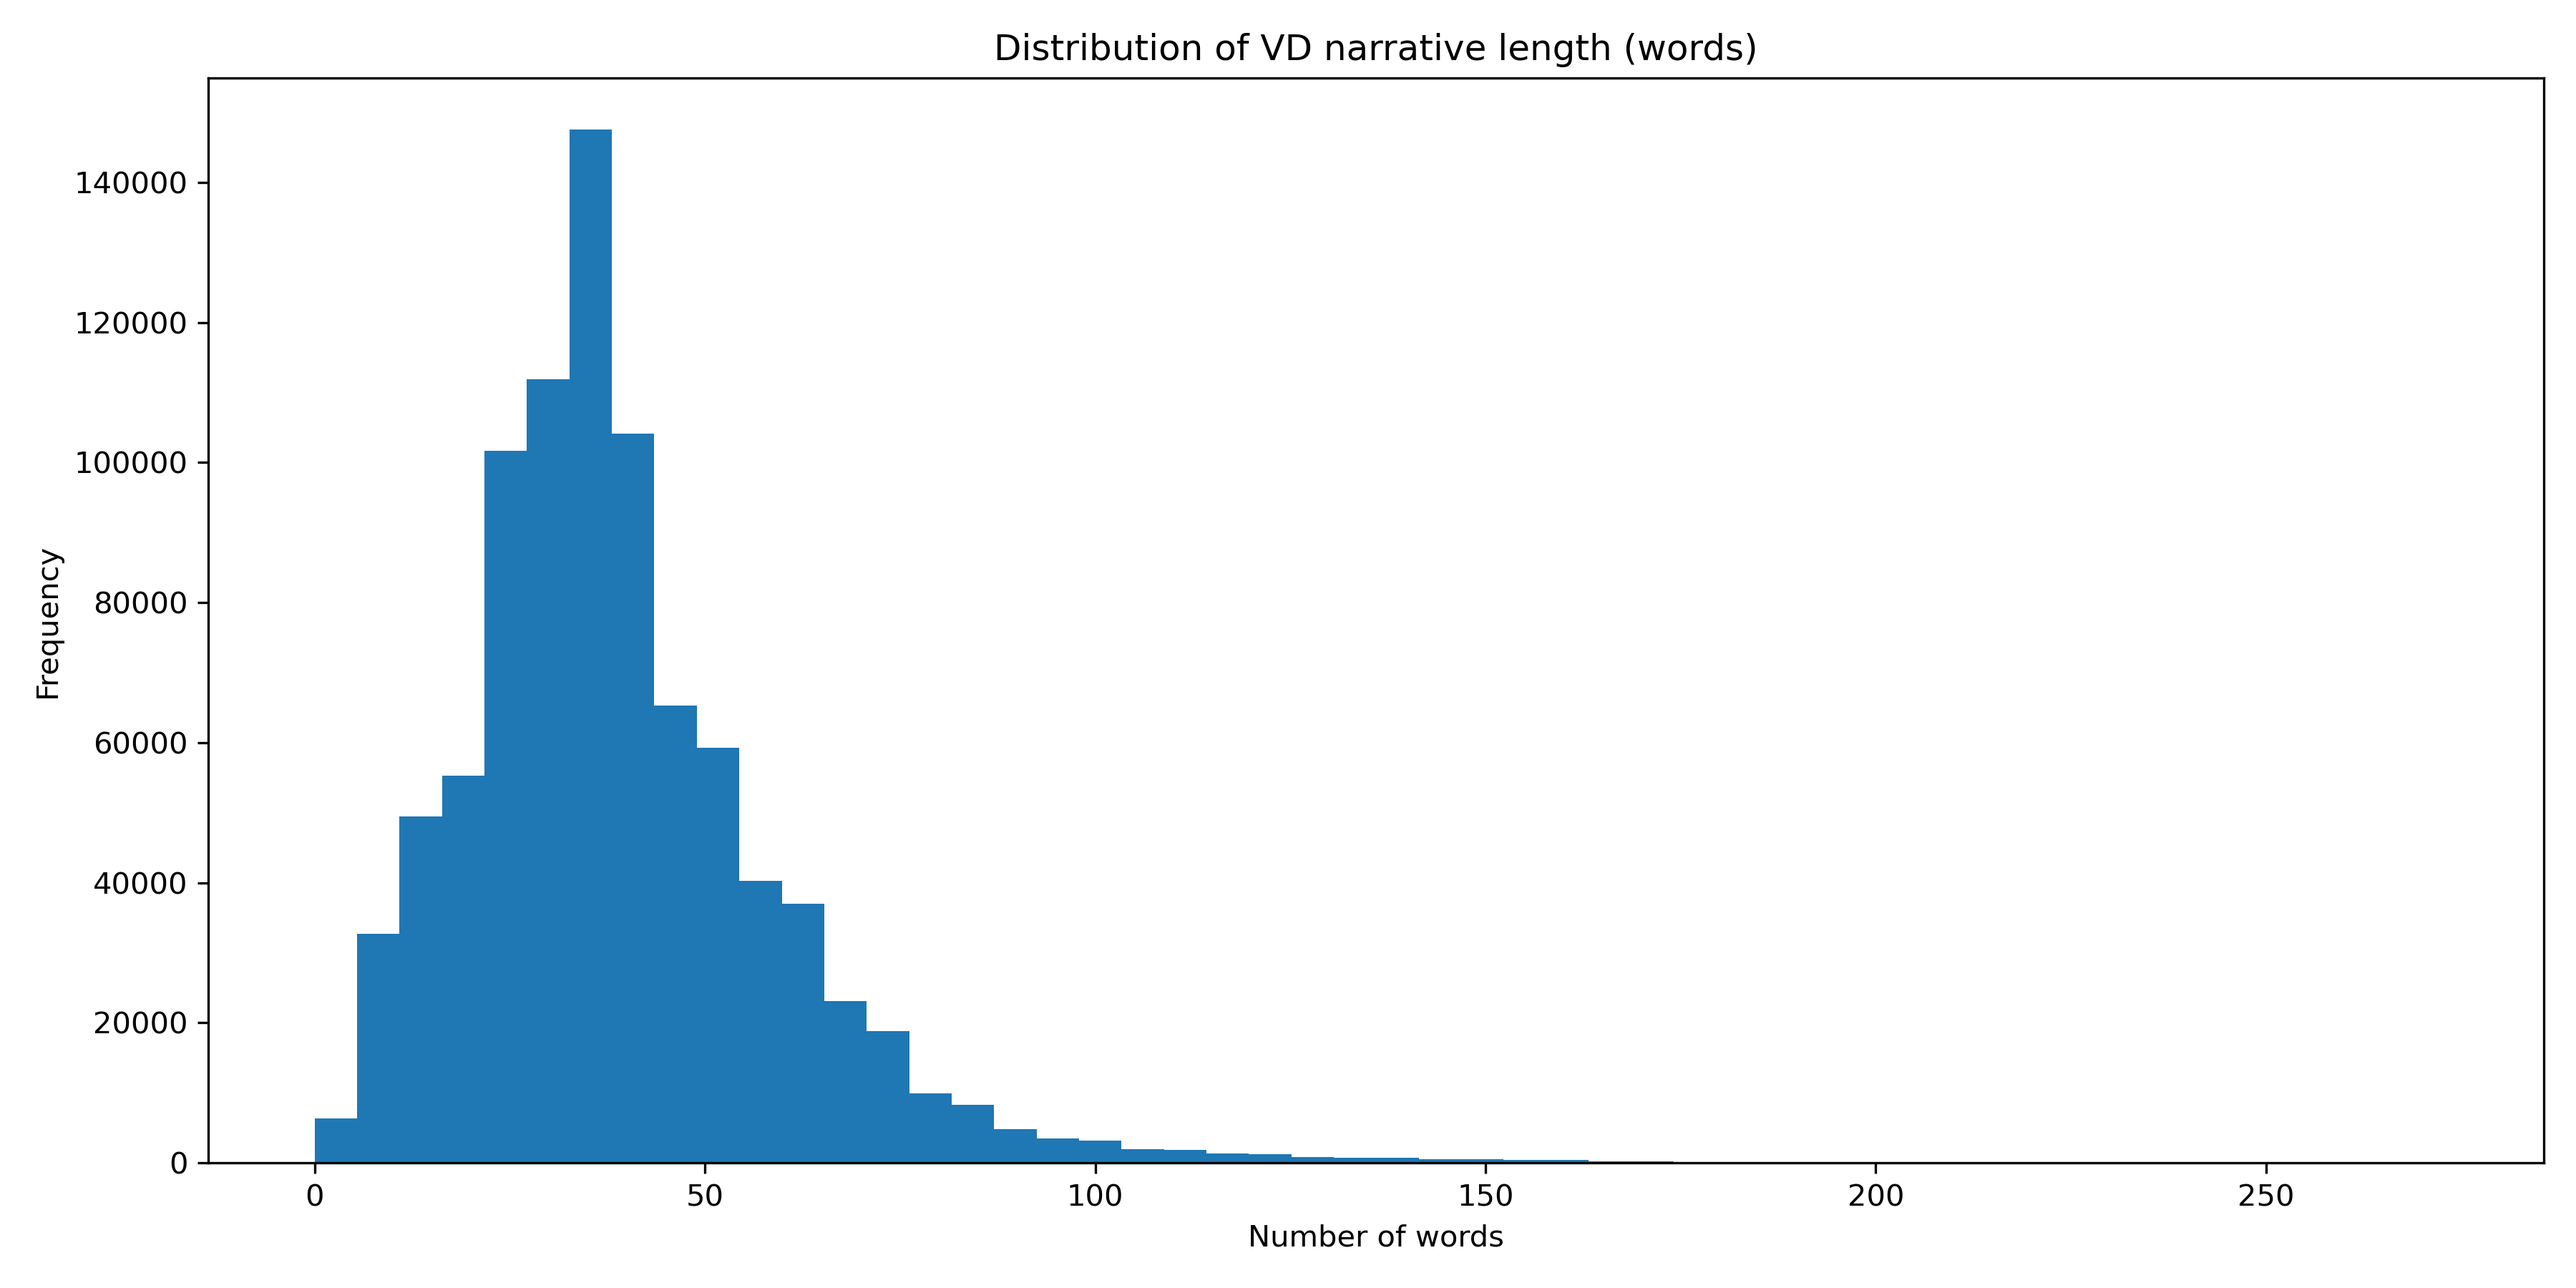
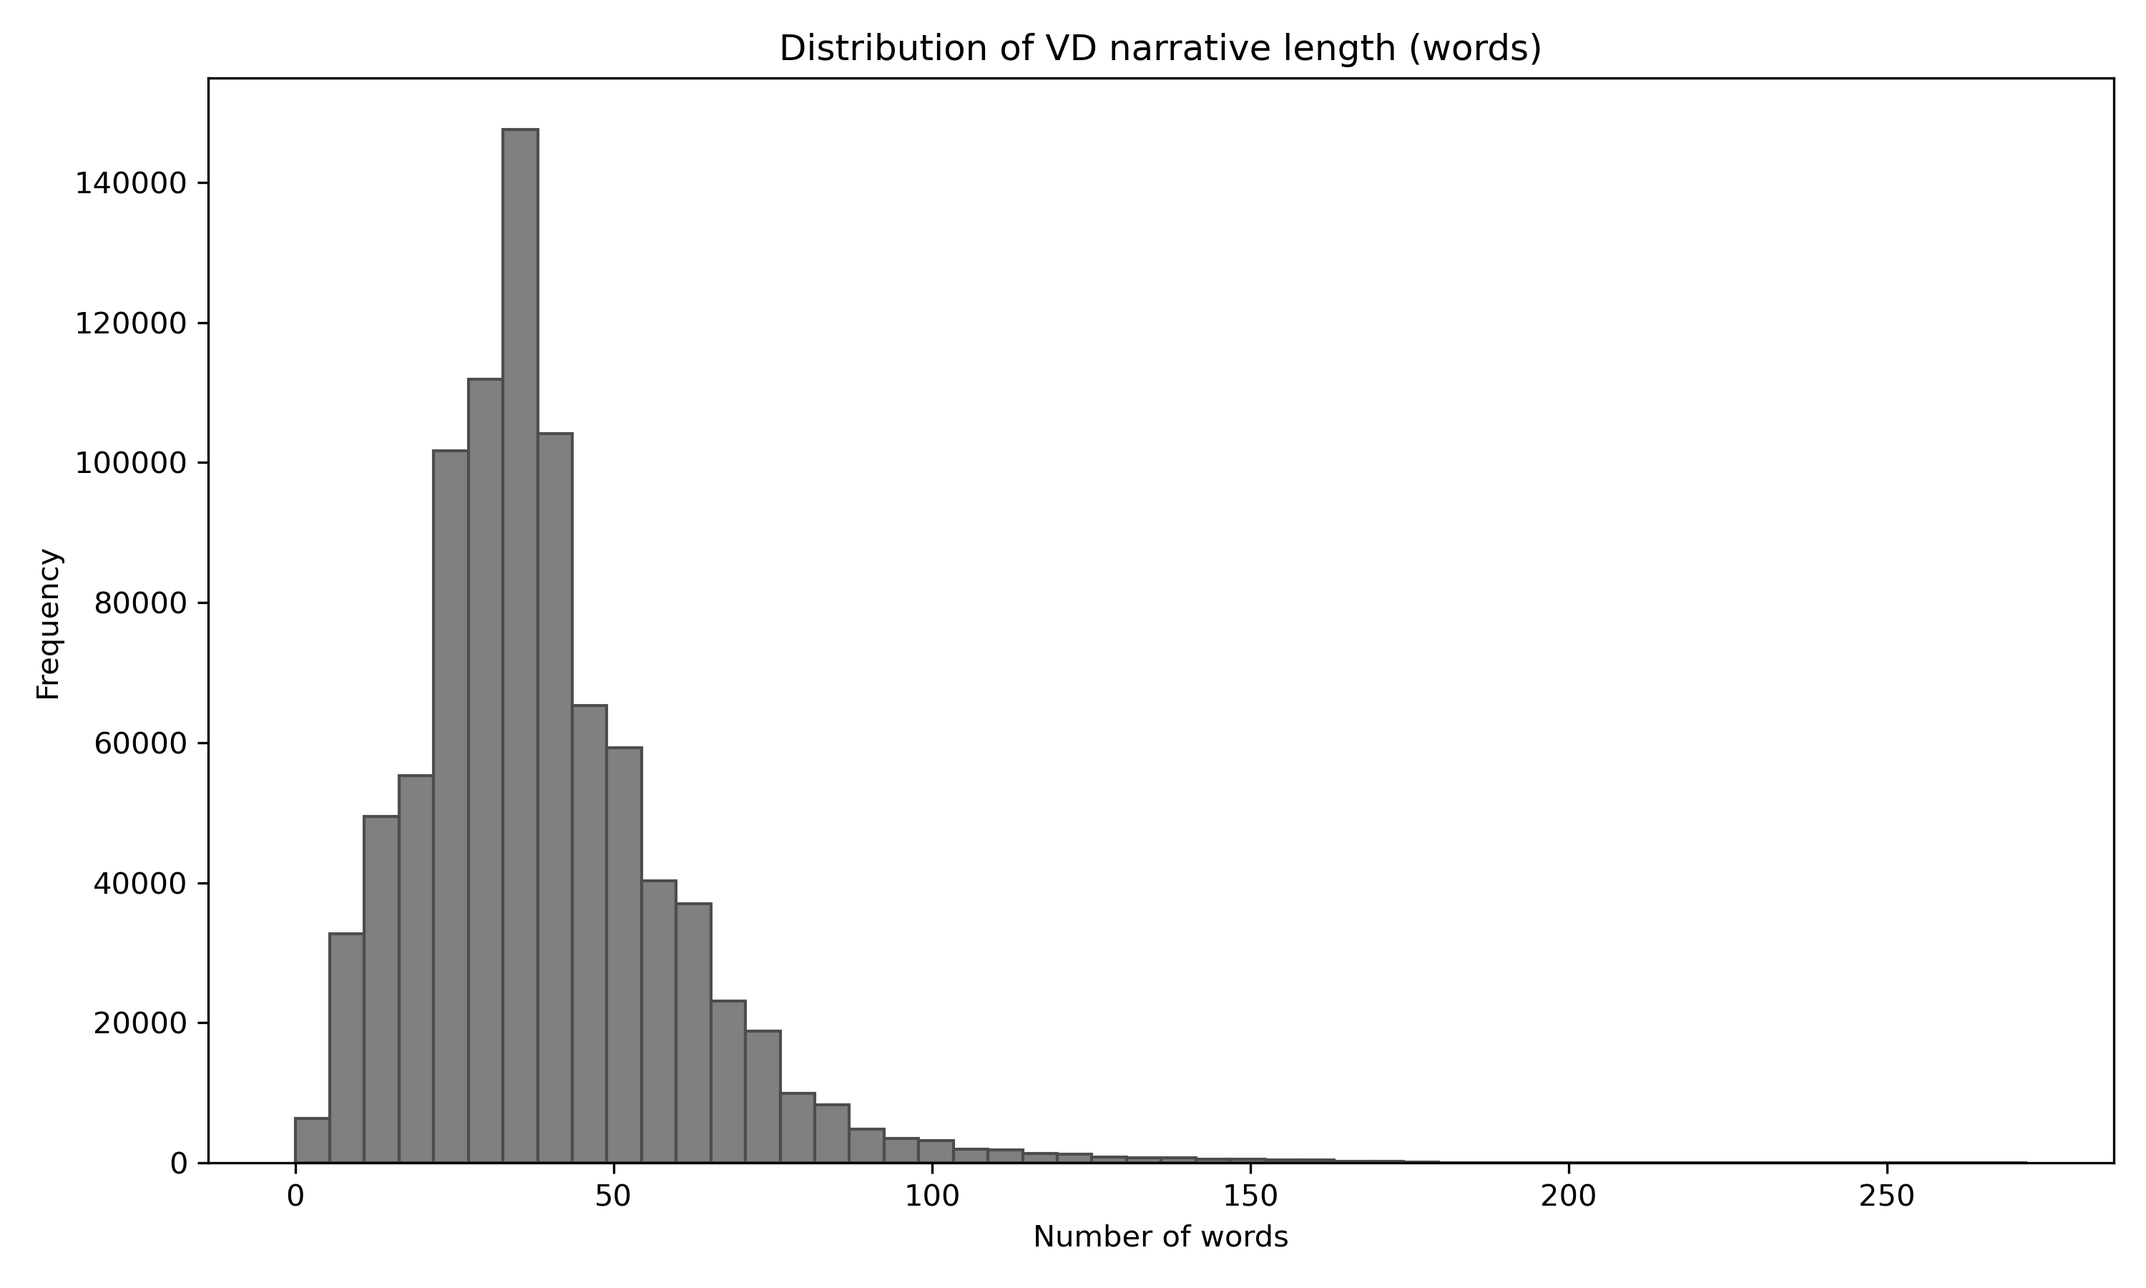
colors

diff --git a/data/data_analysis.py b/data/data_analysis.py
@@ -504,9 +504,13 @@ length_summary = df_text[["n_chars", "n_words", "n_sentences"]].describe(
 )
 
 print(length_summary)
-
-plt.figure()
-plt.hist(df_text["n_chars"].to_numpy(), bins=50)
+plt.figure(figsize=(10, 6))
+plt.hist(
+    df_text["n_chars"].to_numpy(),
+    bins=50,
+    color="gray",
+    edgecolor="#4d4d4d"
+)
 plt.xlabel("Number of characters")
 plt.ylabel("Frequency")
 plt.title("Distribution of VD narrative length (characters)")
@@ -514,8 +518,14 @@ plt.tight_layout()
 plt.savefig(OUTPUT_DIR / "vd_narrative_char_length_distribution.png", dpi=300)
 plt.close()
 
-plt.figure()
-plt.hist(df_text["n_words"].to_numpy(), bins=50)
+
+plt.figure(figsize=(10, 6))
+plt.hist(
+    df_text["n_words"].to_numpy(),
+    bins=50,
+    color="gray",
+    edgecolor="#4d4d4d"
+)
 plt.xlabel("Number of words")
 plt.ylabel("Frequency")
 plt.title("Distribution of VD narrative length (words)")
@@ -523,8 +533,14 @@ plt.tight_layout()
 plt.savefig(OUTPUT_DIR / "vd_narrative_word_length_distribution.png", dpi=300)
 plt.close()
 
-plt.figure()
-plt.hist(df_text["n_sentences"].to_numpy(), bins=40)
+
+plt.figure(figsize=(10, 6))
+plt.hist(
+    df_text["n_sentences"].to_numpy(),
+    bins=40,
+    color="gray",
+    edgecolor="#4d4d4d"
+)
 plt.xlabel("Number of sentences")
 plt.ylabel("Frequency")
 plt.title("Distribution of VD narrative length (sentences)")
